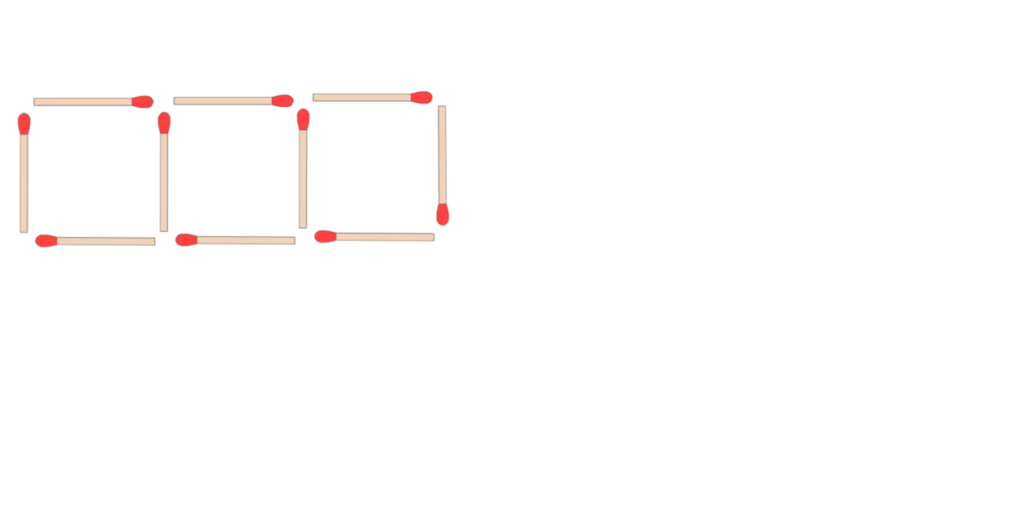
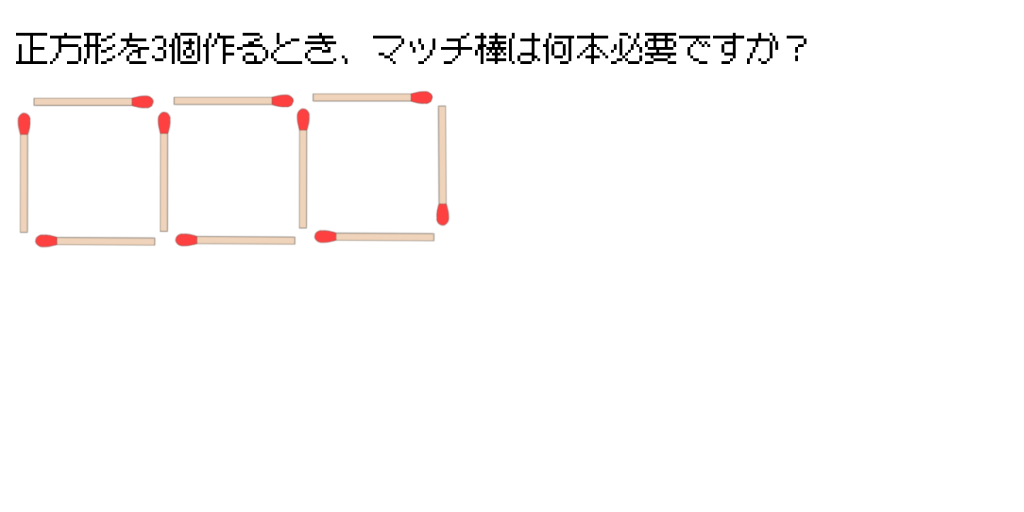
変更内容の説明

Changed region(s): [[0.375, 0.0625, 0.8125, 0.125], [0.0, 0.0625, 0.3438, 0.125]]

diff --git a/public/script.js b/public/script.js
@@ -33,9 +33,9 @@ window.addEventListener('load', function () {
     //配列0のは時短のためのスキップ
     0: [
       "",
-      "<chara 5 1>こんにちは",
-      "<timer><item 1>図のようにマッチ棒を並べて、正方形を横につないだ形を作ります。",
-      "<form 1>正方形を3個作るとき、マッチ棒は何本必要でしょうか？"
+      "<skip 62><chara 5 1>こんにちは",
+      "<item 1>図のようにマッチ棒を並べて、正方形を横につないだ形を作ります。",
+      "正方形を3個作るとき、マッチ棒は何本必要でしょうか？<form 1>"
     ],
     1: [
       "そうですね、数えてみると10本ですね",
@@ -62,8 +62,8 @@ window.addEventListener('load', function () {
     ],
     6: [
       "では正方形がn個あるとき、マッチ棒は何本必要ですか。",
-      "どのように考えられるでしょうか。まずは5分個人で考えてみてください",
-      "(5分タイマー)表や図を使って説明できるようにしましょう。<skip 7>",
+      "どのように考えられるでしょうか。まずは4分個人で考えてみてください",
+      "<timer>表や図を使って説明できるようにしましょう。<skip 7>",
     ],
     7: [
       "<form 4>",
@@ -1742,8 +1742,6 @@ window.addEventListener('load', function () {
 let timer;
 const timerDisplay = document.getElementById('timer');
 const startButton = document.getElementById('startButton');
-const messbox = document.getElementById('messbox');
-
 function updateTimer() {
   const minutes = Math.floor(timeLeft / 60);
   const seconds = timeLeft % 60;
@@ -1758,7 +1756,7 @@ function updateTimer() {
     $('.timer').removeClass('visible');
     console.log('タイマー終了');
     messbox.style.pointerEvents = 'auto'; // タイマー終了後にクリックできるようにする
-    messbox.click(); // クリック処理
+      mess_box.click(); // messboxクリッ
   }
 }
 

diff --git a/public/index.html b/public/index.html
@@ -59,7 +59,7 @@
 
 
   <form id="Q1form" class="formQ1 form">
-    <label for="userAnswer1 userAnswer">マッチ棒は何本必要でしょうか？:</label><br>
+    <label for="userAnswer1 userAnswer">正方形を3個作るとき、マッチ棒は何本必要でしょうか？:</label><br>
     <input type="text" id="userAnswer1" placeholder="解答を入力してください" required>
     <button type="button" id="start-voice1">🎤 音声入力</button>
     <button id="Q1sbmitbutton">答えを送信</button>
